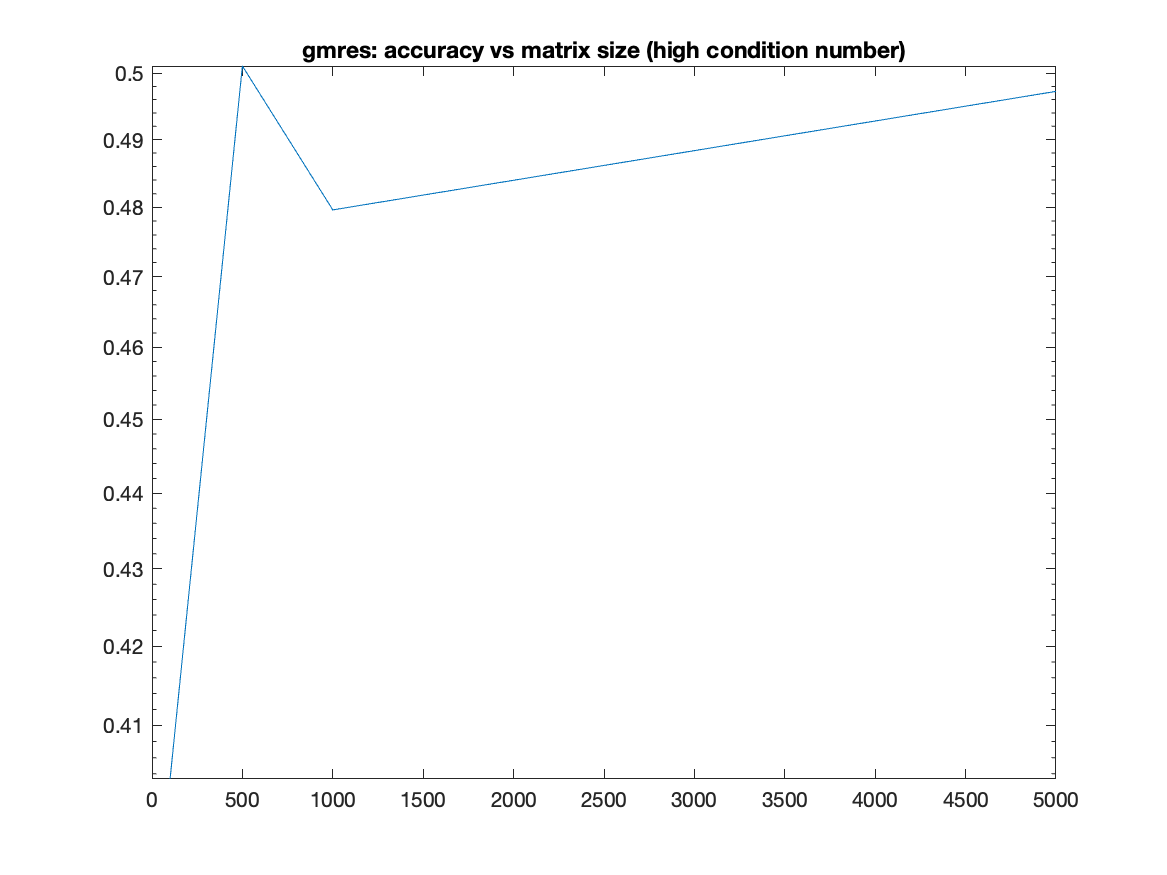
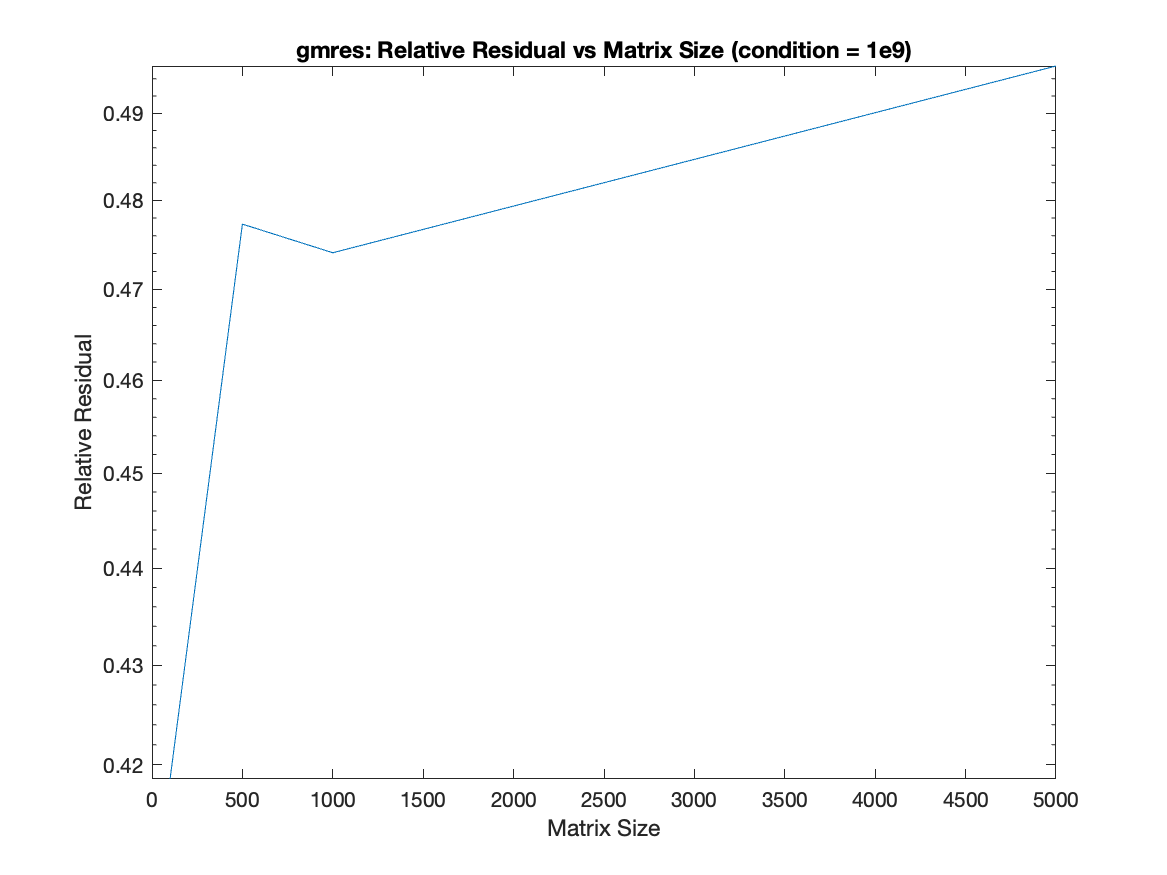
updated graphs

diff --git a/small_size.m b/small_size.m
@@ -28,28 +28,31 @@ for i = 1:size(matrices,2)
 end
 
 figure(1)
-semilogy(cond, relreslu);
-title("luir: accuracy vs condition (small matrix - 500x500)")
+loglog(cond, relreslu);
+title("luir: Relative Residual vs Condition Number (n = 500)")
+xlabel("Condition Number")
+ylabel("Relative Residual")
 saveas(gcf,'luir_acc_smat.png')
 figure(2)
-semilogy(cond, relresgm);
-title("gmres: accuracy vs condition (small matrix - 500x500)")
+loglog(cond, relresgm);
+title("gmres: Relative Residual vs Condition Number (n = 500)")
+xlabel("Condition Number")
+ylabel("Relative Residual")
 saveas(gcf,'gmres_acc_smat.png')
 
 figure(3)
-plot(cond, iterlu);
-title("luir: iterations vs condition (small matrix - 500x500)")
-saveas(gcf,'luir_iter_smat.png')
-figure(4)
-plot(cond, itergm);
-title("gmres: iterations vs condition (small matrix - 500x500)")
-saveas(gcf,'gmres_iter_smat.png')
+semilogx(cond, iterlu, cond, itergm);
+title("Iterations vs Condition Number (n = 500)")
+xlabel("Condition Number")
+ylabel("Number of Iterations")
+legend("luir", "gmres")
+saveas(gcf,'iter_smat.png')
 
-figure(5)
-plot(cond, timelu);
-title("luir: time vs condition (small matrix - 500x500)")
-saveas(gcf,'luir_time_smat.png')
-figure(6)
-plot(cond, timegm);
-title("gmres: time vs condition (small matrix - 500x500)")
-saveas(gcf,'gmres_time_smat.png')
+figure(4)
+semilogx(cond, timelu, cond, timegm);
+title("Time vs Condition Number (n = 500)")
+xlabel("Condition Number")
+ylabel("Time (seconds)")
+legend("luir", "gmres")
+saveas(gcf,'time_smat.png')
+

diff --git a/large_size.m b/large_size.m
@@ -29,28 +29,30 @@ for i = 1:size(matrices,2)
 end
 
 figure(1)
-semilogy(cond, relreslu);
-title("luir: accuracy vs condition (large matrix - n=5000)")
+loglog(cond, relreslu);
+title("luir: Relative Residual vs Condition Number (n = 5000)")
+xlabel("Condition Number")
+ylabel("Relative Residual")
 saveas(gcf,'luir_acc_lmat.png')
 figure(2)
-semilogy(cond, relresgm);
-title("gmres: accuracy vs condition (large matrix - n=5000)")
+loglog(cond, relresgm);
+title("gmres: Relative Residual vs Condition Number (n = 5000)")
+xlabel("Condition Number")
+ylabel("Relative Residual")
 saveas(gcf,'gmres_acc_lmat.png')
 
 figure(3)
-plot(cond, iterlu);
-title("luir: iterations vs condition (large matrix - n=5000)")
-saveas(gcf,'luir_iter_lmat.png')
-figure(4)
-plot(cond, itergm);
-title("gmres: iterations vs condition (large matrix - n=5000)")
-saveas(gcf,'gmres_iter_lmat.png')
+semilogx(cond, iterlu, cond, itergm);
+title("Iterations vs Condition Number (n = 5000)")
+xlabel("Condition Number")
+ylabel("Number of Iterations")
+legend("luir", "gmres")
+saveas(gcf,'iter_lmat.png')
 
-figure(5)
-plot(cond, timelu);
-title("luir: time vs condition (large matrix - n=5000)")
-saveas(gcf,'luir_time_lmat.png')
-figure(6)
-plot(cond, timegm);
-title("gmres: time vs condition (large matrix - n=5000)")
-saveas(gcf,'gmres_time_lmat.png')
+figure(4)
+semilogx(cond, timelu, cond, timegm);
+title("Time vs Condition Number (n = 5000)")
+xlabel("Condition Number")
+ylabel("Time (seconds)")
+legend("luir", "gmres")
+saveas(gcf,'time_lmat.png')

diff --git a/high_cond.m b/high_cond.m
@@ -30,27 +30,30 @@ end
 
 figure(1)
 semilogy(sizes, relreslu);
-title("luir: accuracy vs matrix size (high condition number)")
+title("luir: Relative Residual vs Matrix Size (condition = 1e9)")
+xlabel("Matrix Size")
+ylabel("Relative Residual")
 saveas(gcf,'luir_acc_hcond.png')
 figure(2)
 semilogy(sizes, relresgm);
-title("gmres: accuracy vs matrix size (high condition number)")
+title("gmres: Relative Residual vs Matrix Size (condition = 1e9)")
+xlabel("Matrix Size")
+ylabel("Relative Residual")
 saveas(gcf,'gmres_acc_hcond.png')
 
 figure(3)
-plot(sizes, iterlu);
-title("luir: iterations vs matrix size (high condition number)")
-saveas(gcf,'luir_iter_hcond.png')
-figure(4)
-plot(sizes, itergm);
-title("gmres: iterations vs matrix size (high condition number)")
-saveas(gcf,'gmres_iter_hcond.png')
+plot(sizes, iterlu, sizes, itergm);
+title("Iterations vs Matrix Size (condition = 1e9)")
+xlabel("Matrix Size")
+ylabel("Number of Iterations")
+legend("luir", "gmres")
+saveas(gcf,'iter_hcond.png')
 
-figure(5)
-plot(sizes, timelu);
-title("luir: time vs matrix size (high condition number)")
-saveas(gcf,'luir_time_hcond.png')
-figure(6)
-plot(sizes, timegm);
-title("gmres: time vs matrix size (high condition number)")
-saveas(gcf,'gmres_time_hcond.png')
+figure(4)
+plot(sizes, timelu, sizes, timegm);
+title("Time vs Matrix Size (condition = 1e9)")
+xlabel("Matrix Size")
+ylabel("Time (seconds)")
+legend("luir", "gmres")
+saveas(gcf,'time_hcond.png')
+

diff --git a/low_cond.m b/low_cond.m
@@ -30,27 +30,29 @@ end
 
 figure(1)
 semilogy(sizes, relreslu);
-title("luir: accuracy vs matrix size (low condition number)")
+title("luir: Relative Residual vs Matrix Size (condition = 1e2)")
+xlabel("Matrix Size")
+ylabel("Relative Residual")
 saveas(gcf,'luir_acc_lcond.png')
 figure(2)
 semilogy(sizes, relresgm);
-title("gmres: accuracy vs matrix size (low condition number)")
+title("gmres: Relative Residual vs Matrix Size (condition = 1e2)")
+xlabel("Matrix Size")
+ylabel("Relative Residual")
 saveas(gcf,'gmres_acc_lcond.png')
 
 figure(3)
-plot(sizes, iterlu);
-title("luir: iterations vs matrix size (low condition number)")
-saveas(gcf,'luir_iter_lcond.png')
-figure(4)
-plot(sizes, itergm);
-title("gmres: iterations vs matrix size (low condition number)")
-saveas(gcf,'gmres_iter_lcond.png')
+plot(sizes, iterlu, sizes, itergm);
+title("Iterations vs Matrix Size (condition = 1e2)")
+xlabel("Matrix Size")
+ylabel("Number of Iterations")
+legend("luir", "gmres")
+saveas(gcf,'iter_lcond.png')
 
-figure(5)
-plot(sizes, timelu);
-title("luir: time vs matrix size (low condition number)")
-saveas(gcf,'luir_time_lcond.png')
-figure(6)
-plot(sizes, timegm);
-title("gmres: time vs matrix size (low condition number)")
-saveas(gcf,'gmres_time_lcond.png')
+figure(4)
+plot(sizes, timelu, sizes, timegm);
+title("Time vs Matrix Size (condition = 1e2)")
+xlabel("Matrix Size")
+ylabel("Time (seconds)")
+legend("luir", "gmres")
+saveas(gcf,'time_lcond.png')
